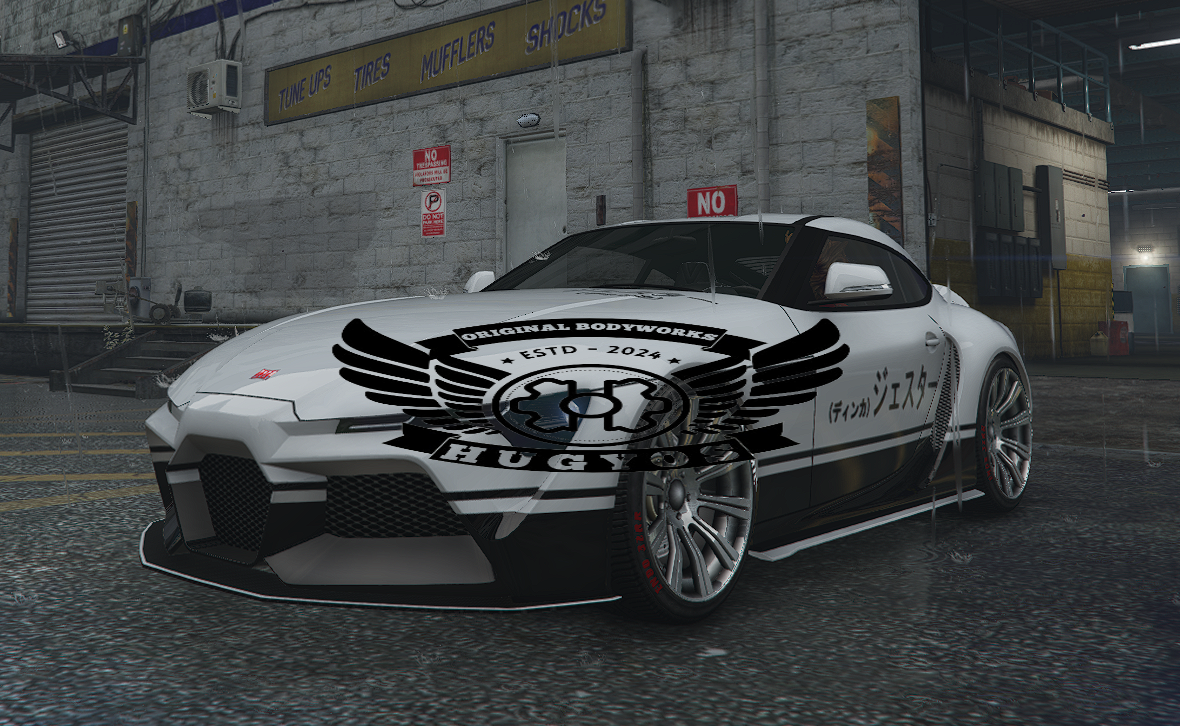
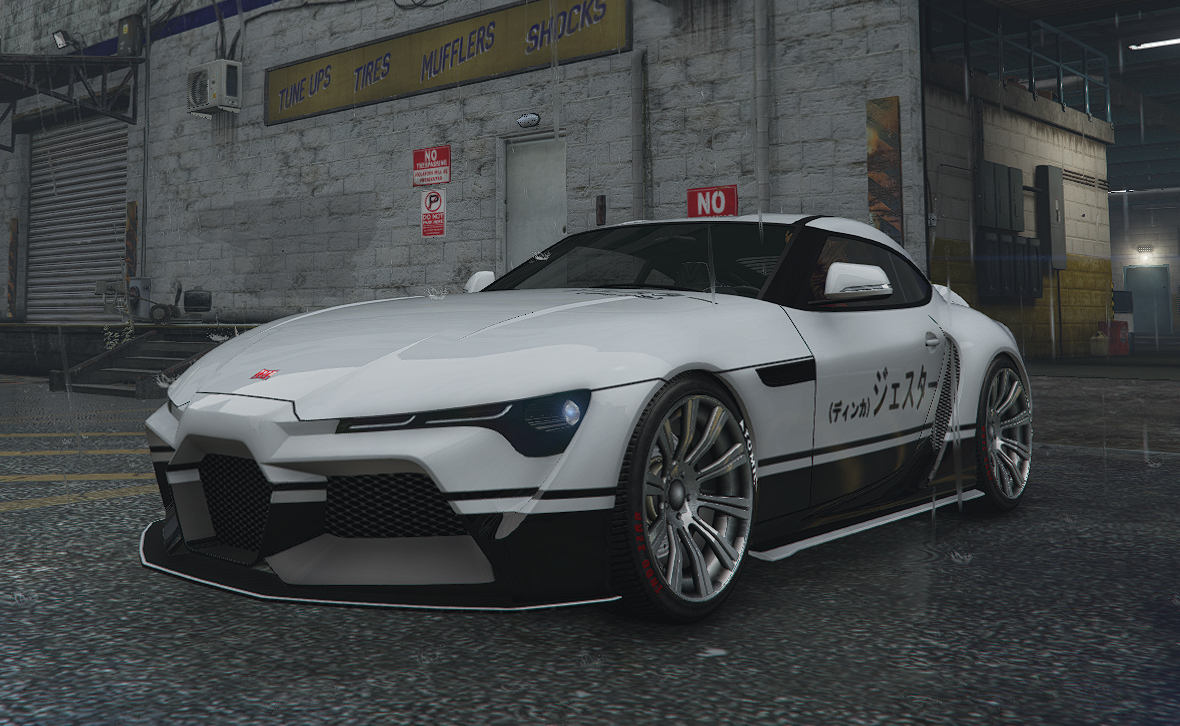
feat: új képek és leírások, style változások, adminpage listaadatok

Changed region(s): [[0.2746, 0.4242, 0.7322, 0.6667]]

diff --git a/src/pages/Gallery/Gallery.tsx b/src/pages/Gallery/Gallery.tsx
@@ -4,16 +4,26 @@ import Navbar from '../../components/navbar/navbar'
 import Footer from '../../components/footer/Footer'
 import SliderImage from '../../components/sliderimage/sliderimage'
 
-import beforeTest from './images/m2/before.png'
-import afterTest from './images/m2/after.png'
+import m2before from './images/m2/before.png'
+import m2after from './images/m2/after.png'
 
 import mk5Before from './images/supra/before.png'
 import mk5After from './images/supra/after.png'
 
 import alpineBefore from './images/alpine/before.png'
 import alpineAfter from './images/alpine/after.png'
+
 import gtBefore from './images/fordgt/before.png'
 import gtAfter from './images/fordgt/after.png'
+
+import abarthBefore from './images/abarth/before.png'
+import abarthAfter from './images/abarth/after.png'
+
+import amcBefore from './images/amc/before.png'
+import amcAfter from './images/amc/after.png'
+
+import cadillacBefore from './images/cadillac/before.png'
+import cadillacAfter from './images/cadillac/after.png'
 
 export function Gallery() {
 
@@ -39,16 +49,19 @@ export function Gallery() {
                 
                         <p style={{textAlign: "center", color: "white", fontSize: 24, width: "60%", margin: "auto", marginBottom: 25}}>Fedezze fel a további felsőkategóriás munkáinkat lentebb!<br />A képeink egy <b>Before/After</b> csúszkával lettek ellátva, hogy szemléltessük a különbséget az alapmodell és a testreszabott modell közötti különbséget.</p>
                 <div className="ImageCardContainer">
-                    <SliderImage beforeSrc={afterTest} afterSrc={beforeTest} kepcim='BMW M2 Competition' cimleiras='A felsőkategóriás német teljesítmény és a megbízhatatlan motorok találkozása' kepleiras='A német luxusmárka évtizedek óta törekszik arra, hogy a teljesítményt, hatékonyságot és a luxust tökéletes harmóniába tudja formálni minden autóban.
+                    <SliderImage beforeSrc={m2before} afterSrc={m2after} kepcim='BMW M2 Competition' cimleiras='A felsőkategóriás német teljesítmény és a megbízhatatlan motorok találkozása' kepleiras='A német luxusmárka évtizedek óta törekszik arra, hogy a teljesítményt, hatékonyságot és a luxust tökéletes harmóniába tudja formálni minden autóban.
 Az M2 Competition kérdés nélkül az egyik legkülönlegesebb platform csúcsmodellje, a sor-hatos motorok iskolapéldájával, az S55-ös ikerturbós motorral felszerelve, 410 lóerővel gurul ki a gyárból.
-Ügyfelünk újult külsővel tapasztlahatja a hibakód-kiüttetés és a havi olajcsere élményét a HuGyoS Original Bodyworks által testreszabott teljesítmény coupé-val.'/>
+Ügyfelünk újult külsővel és porig ültetve, vadonatúj karbon kerekekkel tapasztlahatja a hibakód-kiüttetés és a havi olajcsere élményét a HuGyoS Original Bodyworks által testreszabott teljesítmény coupé-val.'/>
                     <SliderImage beforeSrc={mk5Before} afterSrc={mk5After} kepcim='Toyota Supra Mk. 5' cimleiras='A legikonikusabb japán autó méltó utódja.' kepleiras='Mindenki, aki látta az első Halálos Iramban filmet, azóta mélyen szerelmes a negyedik generációs Toyota Suprába.
 Sajnos a 90-es éveket hátra kell hagyni a Toyotának, és egy hasonló hagyatékú autót kellett tervezni az új nemzedéknek, és itt jön képbe az ötödik generációs Supra.
 Ez az autó a japán megbízhatóság és a német teljesítmény tökéletes ötvözete, mivel ezt az autót egy 3 literes I6-os BMW B58 ikerturbós motor hajtja, kifejtve 382 lóerőt.
-Ügyfelünk egy híres japán sorozat által inspirált kozmetikai módosítást kért tőlünk, éltetve a Toyota több évtizedes hagyatékát.
+Ügyfelünk a vadonatúj teljesítmény légterelőkön és vadonatúj kerekeken kívül egy híres japán sorozat által inspirált kozmetikai módosítást kért tőlünk, éltetve a Toyota több évtizedes hagyatékát.
 '/>
                     <SliderImage beforeSrc={alpineBefore} afterSrc={alpineAfter} kepcim='Alpine A110' cimleiras='Kis motor, hatalmas erő' kepleiras='A francia autóipar koronája, a Renault sportautó-osztálya, Alpine, évtizedek óta készít művészi, pillekönnyű sportautókat. 1.1 tonnára jut 252 lóerő, amelyet egy kifejezetten hatékony 1.8 literes négyhengeres turbó motor hajt. A hengerűrtartalom meg se közelíti a konkurenciát, viszont az európai turbó hihetetlen hatékonyságának és a karosszéria könnyűsége miatt a pályán a az A110-et meg se közelítik a versenytársai. Ügyfelünk egy teljes festést kért, és egy retró stílusú inverz matricát az autó oldalára, ötvözve a modern és a régebbi francia autógyártás kozmetikai csodáit'/>
                     <SliderImage beforeSrc={gtBefore} afterSrc={gtAfter} kepcim='Ford GT' cimleiras='A Le Mans legenda utódja' kepleiras='A fél évszázad óta élő legenda, a Ford GT, a legjobb sikersztori a motorsport történelmében, amikor a Le Mans 24 órás futamon az amerikai erő második helyre kényszerítette a Ferrarit. Ötvenegy év múlva, a Ford csapata nem felejtette el ezt a sikert, és azóta törekszik arra, hogy az új modell felérhessen a régivel. Az amerikai szuperautók csúcsa, a Ford kihozta a lehető legtöbbet a 3.5 literes hathengeres motorokból, 647 lóerővel, annak érdekében, hogy a pálya legjobbjai lehessenek. Ügyfelünk a tiszta, egyszerű modifikációkra esküszik, egy szénszálas szettet és üvegsötétítést bízott ránk.'/>
+                    <SliderImage beforeSrc={abarthBefore} afterSrc={abarthAfter} kepcim='Fiat Abarth 500' cimleiras='Az olasz városi autózás atyja' kepleiras='A már 1957-től gyártott modellt a mai napig, felfrissítve gyártják. Ez nem is véletlen, hiszen a korabeli modellek 500 köbcentis motorja iszonyatosan alacsony fogyasztásra volt képes, akár csak városi közlekedés közben is, emellett kevesebb, mint 3 méteres hosszúsága a parkolást is megkönnyítette. Mindez elég volt ahhoz, hogy a mai napig fennmaradó városi autó lehessen. A mindehhez társított Abarth kiadás pedig vitt egy kis tüzet az autóba, arra az esetre ha a telekre lemennénk hétvégén, élményben is többet nyújtson. Az igazi relikviát festett gumikkal, vadonatúj védőfestékkel és felújított elektronikával láttuk el, megtartva a régies kinézetet.'/>
+                    <SliderImage beforeSrc={amcBefore} afterSrc={amcAfter} kepcim='AMC Javelin' cimleiras='USA! USA! USA!' kepleiras='Az "American Motors Corporation" 1968 és 1971 között gyártotta ezt a lehengerlő formavilágú, szigorú és egyedi izomautót. A 6.6 literes V8-as motor brutális nyomatéka és 300 feletti lőerőszáma valóban egy elképesztő izomautóvá tette a maga korában, emellett árban is elérhető kategória volt. A mai napig időtlen forma, ám sajnos, mint minden más amerikai dögnek, ennek is betett a 70-es évek olajválsága, így a modell feledésbe merült, majd a márka megszűnésével megpecsételődött, hogy nem is tér vissza. A formabontó design ezen a muzeális értékű autón tiszteletet parancsol az utakon a modern standardokhoz képest is kitűnő teljesítményével, és garantáltan nem fognak hinni a szemüknek az EcoBoost-os Mustangok az ACCH-n.'/>
+                    <SliderImage beforeSrc={cadillacBefore} afterSrc={cadillacAfter} kepcim='Cadillac Elmiraj' cimleiras='Az egyetlen példány a világon' kepleiras='Az eddigi legmonumentálisabb projektünk, az egyedi, egyetlen példányos Cadillac Elmiraj egy koncepcióautó 2013-ból, ami sosem került gyártásra. Nincs szükség tökéletesíteni a tökéleteset, egy igazi amerikai izomautóval van dolgunk, pontosabban egy 4.5 literes ikerturbós benzinvedelő V8-al, ami 500 lóerővel üvölti a szabadságot. Ügyfelünk egy $110B értékű multicég, megbízásukra átalakítottuk egy szponzorautóvá. Sajnálatos, hogy mi történt az 1/1 koncepcióautó külsejével, de a pénz beszél, és a V8 üvölt.'/>
                 </div>
             </div>
             <Footer FooterText="Copyright 2024 HuGyoS Original Bodyworks Ltd. Semmilyen jog nincs fenntartva, csak egy iskolai projekt, legyenek szívesek nem beperelni minket. Minden felhasznált tartalom a jogos szerzőjének tulajdona." />

diff --git a/src/pages/AdminPage/adminpage.tsx b/src/pages/AdminPage/adminpage.tsx
@@ -170,6 +170,7 @@ export function AdminPage() {
                 <div id='TableEditorPanel'>
                     <h2>Árlista</h2>
                     <hr />
+                    <h3 style={{textAlign: "center", marginBottom: 15}}>Elemszám: <u>{arak.length}</u></h3>
                     <div className="ContentTable">
                         <div className="setter">
                         <input type='number' placeholder='arId' name="arId" id="arId" style={{backgroundColor: "darkslategray"}} onChange={e => {
@@ -223,6 +224,7 @@ export function AdminPage() {
                 <h2>Elérhetőségek</h2>
                     <hr />
                     <div className="ContentTable">
+                    <h3 style={{textAlign: "center", marginBottom: 15}}>Elemszám: <u>{elerhetosegek.length}</u></h3>
                         <div className="setter">
                         <input type='number' placeholder='elId' name="elId" id="elId" style={{backgroundColor: "darkslategray"}} onChange={e => {
                                 {

diff --git a/src/components/navbar/navbar.scss b/src/components/navbar/navbar.scss
@@ -2,11 +2,9 @@
 $hatterszin: rgba(69, 69, 69, 1);
 $szovegszin: white;
 $altszin: #4BB984;;
-$mainfont: Verdana, Geneva, Tahoma, sans-serif;
 
 
 nav {
-    background-color: $hatterszin;
     z-index: 99999;
 
     .NavLinks {
@@ -21,15 +19,13 @@ nav {
         }
     }
 }
-* {
-    font-family: $mainfont
-}
 
 .UpperContainer {
     width: 100%;
     height: 120px;
     position: fixed;
-    box-shadow: 0px 10px 16px 7px rgba(0,0,0,0.3);
+    background: linear-gradient(180deg, rgba(40,40,45,1) 0%, rgba(69,69,69,0.1) 95%, rgba(0, 0, 0, 0)) !important;
+    box-shadow: 0px -9px 21px -3px rgba(0,0,0,0.1);;
 
     .NavLinks {
         height: 100%;
@@ -71,7 +67,8 @@ nav {
     position: fixed;
     right: 0;
     background: rgb(40,40,45);
-    background: linear-gradient(0deg, rgba(40,40,45,1) 0%, rgba(69,69,69,1) 100%);
+    background: linear-gradient(180deg, rgba(40,40,45,1) 0%, rgba(69,69,69,0.8) 100%);
+    backdrop-filter: blur(3px);
 
     .NavLinks {
         display: flex;

diff --git a/src/pages/Landing/landing.scss b/src/pages/Landing/landing.scss
@@ -48,17 +48,18 @@ $highlightcolor: #4BB984;
     
     padding: 5px 5px 5px 5px;
     font-size: 3rem;
-    background-color: rgb(69, 69, 69);
-    border: 5px solid rgb(40, 40, 40);
+    background-color: rgba(69, 69, 69, 0.6);
+    border: 0;
     border-radius: 20px;
     box-shadow: 0px 10px 22px 16px rgba(0,0,0,0.5);
     color: white;
     font-weight: bold;
-    transition: 0.2s ease-in-out;
+    transition: 0.4s ease-out;
 }
 .ctaButton:hover {
     cursor: pointer;
     box-shadow: 0px 10px 22px 16px rgba(75, 185, 132, 0.3);
+    background-color: rgba(69, 69, 69, 1);
     color: rgb(75, 185, 132)
 }
 .logo {

diff --git a/src/pages/AdminPage/adminpage.scss b/src/pages/AdminPage/adminpage.scss
@@ -40,6 +40,9 @@
         text-align: center;
         background-color: rgb(79, 79, 79);
     }
+    u {
+        color: #4BB984;
+    }
     input:hover, textarea:hover {
         background-color: #4BB984;
         transition: 0.3s;
